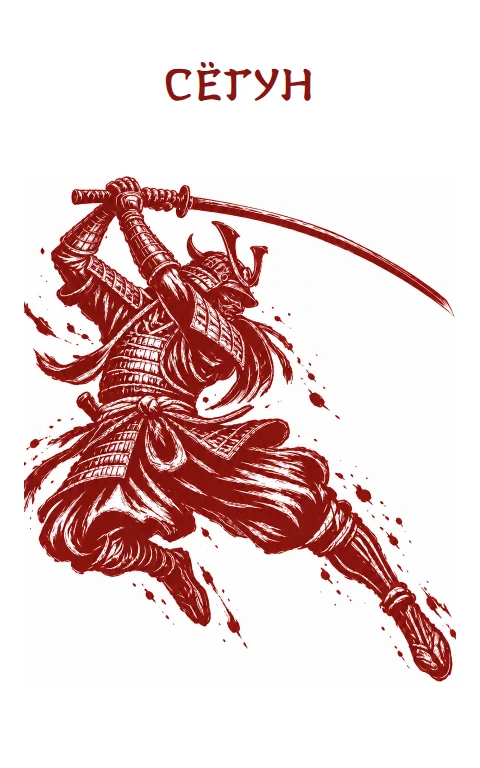
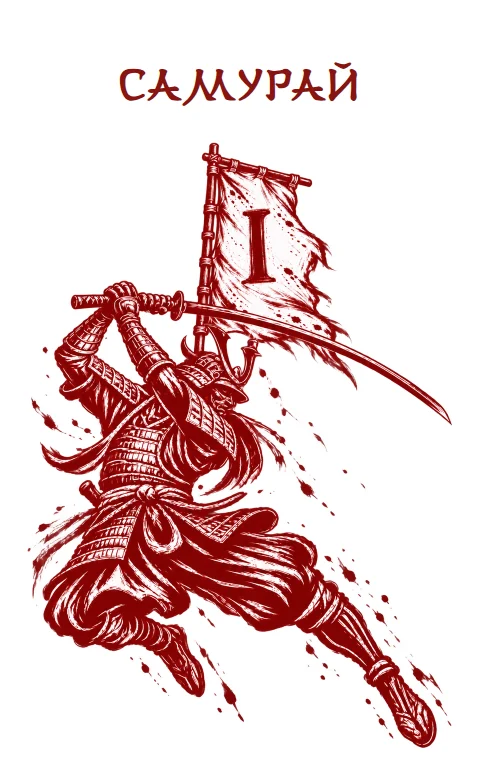
Роль «Самурай» со знаменем «I» (#202 вместо «Сёгуна»): сасимоно за спиной, с этого самурая начинается партия и каждый раунд; правила RU/EN
Арт — /img по арту роли с сасимоно, исходники в ref/banner/, посадка в формат — tools/compose-role-first.py. Обычный «Самурай» ×2, со знаменем ×1.

diff --git a/rules/rules.html b/rules/rules.html
@@ -55,7 +55,7 @@
 <p>Перед началом партии игроки последовательно выполняют четыре шага: распределяют роли, рассаживаются за столом, тянут карты персонажей и выставляют стартовые очки жизни и победные очки. После этого каждый берёт из колоды семь карт — размер стартовой руки у всех одинаковый.</p>
 <h4>Распределение ролей</h4>
 <p>Стороны набираются либо по общей договорённости, либо случайным жребием — картами ролей, у которых особая зелёная рубашка. При чётном количестве игроков команды формируются поровну — половина самураев, половина ниндзя. При нечётном составе одна из сторон получает на одного игрока больше; какая именно — решается заранее по общей договорённости.</p>
-<p>Первый ход в партии делает игрок, определённый жребием; дальше ход передаётся по часовой стрелке, и с этого же игрока начинается каждый новый раунд.</p>
+<p>Одна из карт самураев помечена знаменем «I» — её владелец делает первый ход в партии, и с него же начинается каждый новый раунд; дальше ход передаётся по часовой стрелке. Раунд всегда открывает самурай.</p>
         </div>
       </section>
       </div>

diff --git a/rules/content-ru.html b/rules/content-ru.html
@@ -16,7 +16,7 @@
 
       <h4>Распределение ролей</h4>
       <p>Стороны набираются либо по общей договорённости, либо случайным жребием — картами ролей, у которых особая зелёная рубашка. При чётном количестве игроков команды формируются поровну — половина самураев, половина ниндзя. При нечётном составе одна из сторон получает на одного игрока больше; какая именно — решается заранее по общей договорённости.</p>
-      <p>Первый ход в партии делает игрок, определённый жребием; дальше ход передаётся по часовой стрелке, и с этого же игрока начинается каждый новый раунд.</p>
+      <p>Одна из карт самураев помечена знаменем «I» — её владелец делает первый ход в партии, и с него же начинается каждый новый раунд; дальше ход передаётся по часовой стрелке. Раунд всегда открывает самурай.</p>
 
       <h4>Рассадка игроков</h4>
       <p>После распределения ролей игроки занимают места за столом. Оптимальная рассадка — через одного: самурай — ниндзя — самурай — ниндзя и так далее. По общей договорённости можно сесть как угодно, однако игра задумывалась именно для рассадки через одного.</p>

diff --git a/rules/rules-en.html b/rules/rules-en.html
@@ -55,7 +55,7 @@
 <p>Before the game begins, players work through four steps in order: they split into sides, take their seats, draw character cards, and set out their starting life and victory points. Then everyone draws seven cards from the deck — the starting hand is the same size for everyone.</p>
 <h4>Choosing sides</h4>
 <p>Sides are formed either by common agreement or by random draw — with the role cards, which have a special green back. With an even number of players the teams are equal — half samurai, half ninja. With an odd number, one side gets an extra player; which side that is must be settled beforehand by common agreement.</p>
-<p>The first turn of the game goes to a player chosen by lot; play then passes clockwise, and every new round begins with that same player.</p>
+<p>One of the Samurai cards is marked with the «I» banner — its holder takes the first turn of the game, and every new round begins with them; play then passes clockwise. A round is always opened by a samurai.</p>
         </div>
       </section>
       </div>

diff --git a/rules/content-en.html b/rules/content-en.html
@@ -14,7 +14,7 @@
 
       <h4>Choosing sides</h4>
       <p>Sides are formed either by common agreement or by random draw — with the role cards, which have a special green back. With an even number of players the teams are equal — half samurai, half ninja. With an odd number, one side gets an extra player; which side that is must be settled beforehand by common agreement.</p>
-      <p>The first turn of the game goes to a player chosen by lot; play then passes clockwise, and every new round begins with that same player.</p>
+      <p>One of the Samurai cards is marked with the «I» banner — its holder takes the first turn of the game, and every new round begins with them; play then passes clockwise. A round is always opened by a samurai.</p>
 
       <h4>Seating</h4>
       <p>Once sides are set, players take their places at the table. The intended seating alternates sides: samurai — ninja — samurai — ninja, and so on. By common agreement you may sit however you like, but the game was designed around alternating seats.</p>

diff --git a/tools/compose-role-first.py b/tools/compose-role-first.py
@@ -1,0 +1,22 @@
+# -*- coding: utf-8 -*-
+"""Роль «Самурай» первого хода (карта #202): арт сгенерирован /img по арту роли «Самурай» с сасимоно «I»
+за спиной (исходник с альфой — ref/banner/role-samurai-first-src2.png; знамя отдельно — ref/banner/banner-I.png).
+Здесь — только посадка в формат арта роли 960×1536 на белом: знамя поднимается выше головы, поэтому фигура
+уменьшена и прижата к низу, чтобы верхняя четверть (название карты) осталась пустой.
+compose-role-first.py [scale=0.9] [bottom_margin_px=40]"""
+import sys, os
+import numpy as np
+from PIL import Image
+os.chdir(r'C:\ninja_samurai\cardboard')
+K = float(sys.argv[1]) if len(sys.argv) > 1 else 0.9
+M = int(sys.argv[2]) if len(sys.argv) > 2 else 40
+W, H = 960, 1536
+src = Image.open('ref/banner/role-samurai-first-src2.png').convert('RGBA')
+bg = Image.new('RGBA', src.size, (255, 255, 255, 255)); bg.alpha_composite(src); bg = bg.convert('RGB')
+a = np.array(bg); ink = (a < 235).any(axis=2); ys, xs = np.where(ink)
+fig = bg.crop((xs.min(), ys.min(), xs.max() + 1, ys.max() + 1))
+fig = fig.resize((round(fig.width * K), round(fig.height * K)), Image.LANCZOS)
+out = Image.new('RGB', (W, H), (255, 255, 255))
+out.paste(fig, ((W - fig.width) // 2, H - M - fig.height))
+out.save('cards/card_role_samurai_first.png')
+print('fig', fig.size, 'top at %.1f%%' % ((H - M - fig.height) / H * 100))
